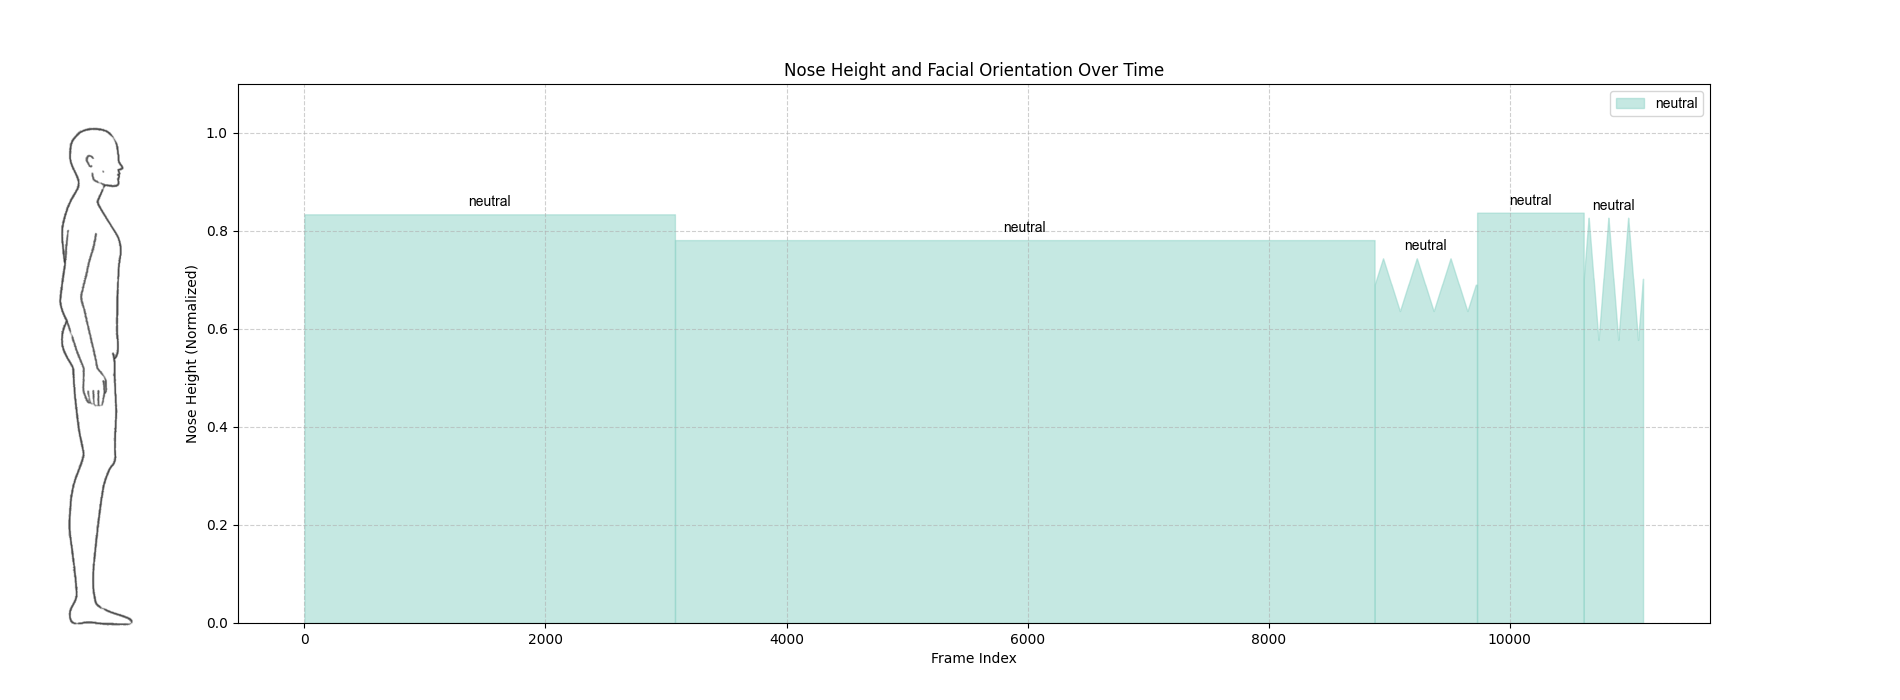
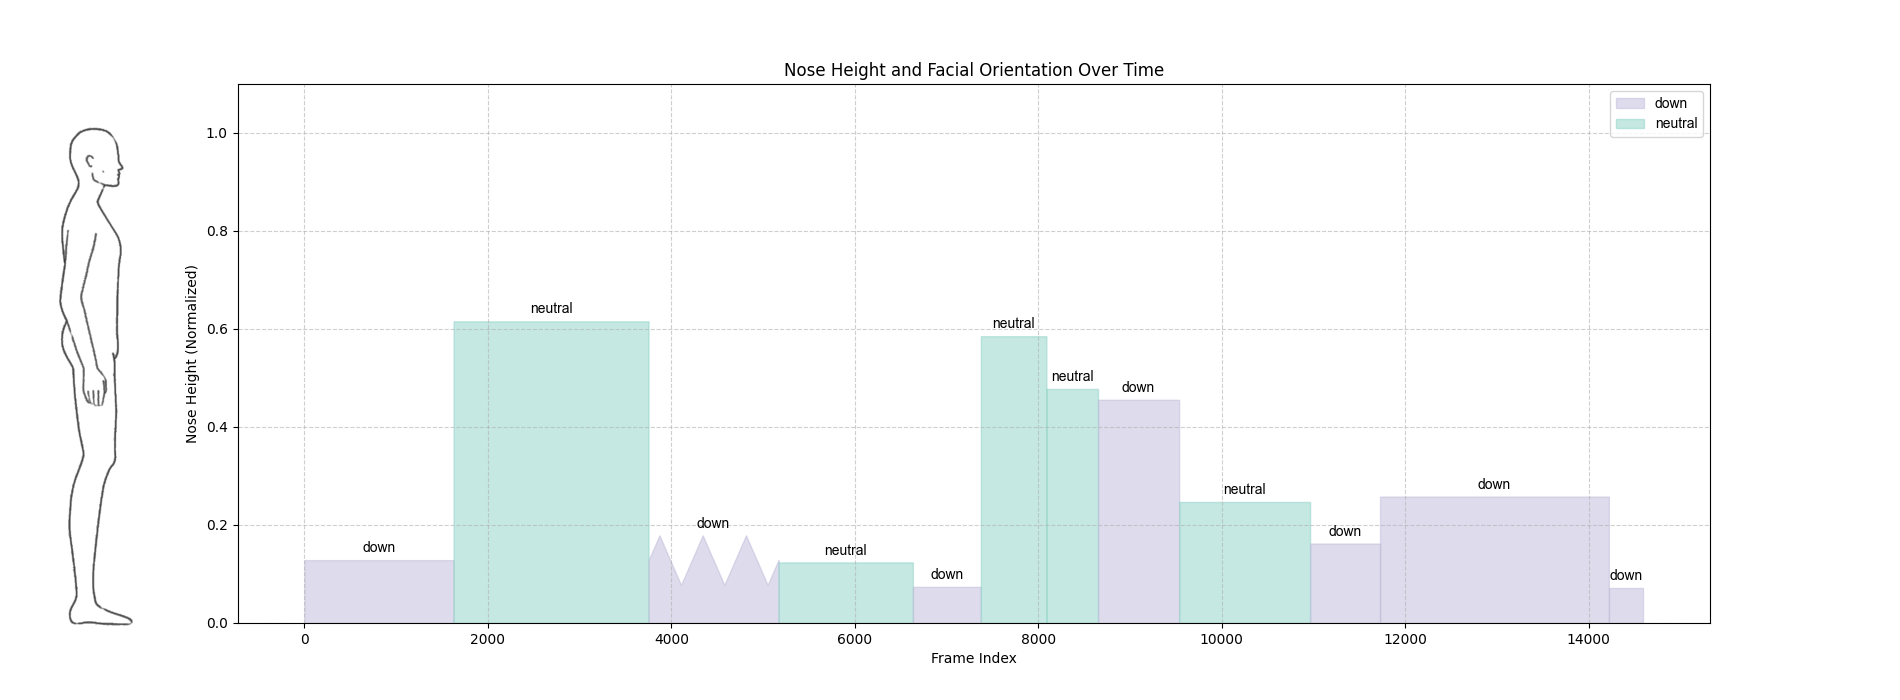
Update app.py, analysis.js, result_plot.png, and analysis.html

diff --git a/templates/analysis.html b/templates/analysis.html
@@ -57,7 +57,7 @@
                 <div class="flex items-center">
                     <a href="/" class="font-['Pacifico'] text-2xl text-primary">MoveMate</a>
                     <div class="ml-10 flex space-x-8">
-                        <a href="/" class="text-gray-500 hover:text-primary px-3 py-2 text-sm font-medium">How It Works<</a>
+                        <a href="/" class="text-gray-500 hover:text-primary px-3 py-2 text-sm font-medium">How It Works</a>
                         <a href="/upload" class="text-gray-500 hover:text-primary px-3 py-2 text-sm font-medium">UPLOAD</a>
                         <a href="/analysis" class="text-primary border-b-2 border-primary px-3 py-2 text-sm font-medium">ANALYSIS</a>
                     </div>

diff --git a/static/analysis.js b/static/analysis.js
@@ -40,7 +40,7 @@ document.addEventListener("DOMContentLoaded", function () {
                 resultImage1.style.display = 'block';
 
                 const resultImage2 = document.getElementById("suggestion-image-2");
-                if (data.image_url_2 !== "None") {  // 确认 image_url_2 不是 None 或 null
+                if (data.image_url_2 != null) {  // 确认 image_url_2 不是 None 或 null
                     resultImage2.src = data.image_url_2;
                     resultImage2.style.display = 'block';
                 } else {

diff --git a/app.py b/app.py
@@ -1460,14 +1460,14 @@ def analyze_video_orientation(orientation_segments):
     segment1 = ""
     segment2 = ""
     if standing_ratio > 0.8:
-        segment1 = "这个视频中大部分都是站立的动作，建议把播放设备放置在支架上。"
+        segment1 = "这个视频中大部分都是站立的动作，建议把播放设备放置在支架上。\n"
         segment2 = ("建议把播放设备放在如下图所示的位置。")
         image.append(1)
     elif transitions_count > 2 :
-        segment1 = "这个视频动作类型较为分散，可能需要多次调整播放设备"
+        segment1 = "这个视频动作类型较为分散，可能需要多次调整播放设备。"
     elif transitions_count == 1 :
         if store == 'high':
-            segment1 = "这个视频前期是站立动作，建议把播放设备放置在支架上。后期是非站立动作，建议把播放设备放置在地板上。"
+            segment1 = "这个视频前期是站立动作，建议把播放设备放置在支架上。后期是非站立动作，建议把播放设备放置在地板上。\n"
             if down_ratio > 0.8:
                 segment2 = ("建议把播放设备放在如下图所示的位置。")
                 image.append(1)
@@ -1477,7 +1477,7 @@ def analyze_video_orientation(orientation_segments):
                 image.append(1)
                 image.append(2)
         else:
-            segment1 = "这个视频前期是非站立动作，建议把播放设备放置在地板上。后期是站立动作，建议把播放设备放置在支架上。"
+            segment1 = "这个视频前期是非站立动作，建议把播放设备放置在地板上。后期是站立动作，建议把播放设备放置在支架上。\n"
             if down_ratio > 0.8:
                 segment2 = ("建议把播放设备放在如下图所示的位置。")
                 image.append(3)
@@ -1487,7 +1487,7 @@ def analyze_video_orientation(orientation_segments):
                 image.append(2)
                 image.append(1)
     else:
-        segment1 = "这个视频中大部分动作都是非站立动作，建议把播放设备放置在地板上。"
+        segment1 = "这个视频中大部分动作都是非站立动作，建议把播放设备放置在地板上。\n"
         if down_ratio > 0.8:
             segment2 = ("建议把播放设备放在如下图所示的位置。")
             image.append(3)
@@ -1549,47 +1549,47 @@ def get_video():
 
 @app.route("/check_status")
 def check_status():
-    frame_data_list, fps= generate_video(video_filename)
-    body_height, orientation, head_y = extract_data_from_frame_list(frame_data_list)
-    orientation = smooth_stable_data(orientation)
-    orientation_segments = first_orientation_segments(orientation, body_height, head_y, fps)
-    orientation_segments, orientation, body_height, head_y = filter_invalid_orientation_segments(orientation_segments, orientation, body_height, head_y, fps)
+    # frame_data_list, fps= generate_video(video_filename)
+    # body_height, orientation, head_y = extract_data_from_frame_list(frame_data_list)
+    # orientation = smooth_stable_data(orientation)
+    # orientation_segments = first_orientation_segments(orientation, body_height, head_y, fps)
+    # orientation_segments, orientation, body_height, head_y = filter_invalid_orientation_segments(orientation_segments, orientation, body_height, head_y, fps)
     
-    change_points = detect_change_points(body_height, visualize=False)
-    orientation_segments, orientation, body_height, head_y = remove_large_height_changes(change_points, orientation_segments, orientation, body_height, head_y, fps)
-    orientation_segments = merge_alternating_orients(orientation_segments, fps)
-    orientation_segments, orientation, body_height, head_y = merge_orientation_segments(orientation_segments, orientation, body_height, head_y, fps)
+    # change_points = detect_change_points(body_height, visualize=False)
+    # orientation_segments, orientation, body_height, head_y = remove_large_height_changes(change_points, orientation_segments, orientation, body_height, head_y, fps)
+    # orientation_segments = merge_alternating_orients(orientation_segments, fps)
+    # orientation_segments, orientation, body_height, head_y = merge_orientation_segments(orientation_segments, orientation, body_height, head_y, fps)
 
 
-    segmented_head_y = split_head_y_by_orientation(orientation_segments, head_y)
-    segmented_head_y, split_info = process_segmented_head_y(segmented_head_y)
-    print(split_info)
+    # segmented_head_y = split_head_y_by_orientation(orientation_segments, head_y)
+    # segmented_head_y, split_info = process_segmented_head_y(segmented_head_y)
+    # print(split_info)
 
-    periodics = []
-    means = []
-    amps = []
-    for segment in segmented_head_y:
-        segment = np.array(segment, dtype=float)
-        periodic, mean, amp = detect_periodicity_acf_with_peaks(segment)
-        if periodic:
-            if amp < 0.05:
-                periodic = False
-        periodics.append(periodic)
-        means.append(mean)
-        amps.append(amp)
+    # periodics = []
+    # means = []
+    # amps = []
+    # for segment in segmented_head_y:
+    #     segment = np.array(segment, dtype=float)
+    #     periodic, mean, amp = detect_periodicity_acf_with_peaks(segment)
+    #     if periodic:
+    #         if amp < 0.05:
+    #             periodic = False
+    #     periodics.append(periodic)
+    #     means.append(mean)
+    #     amps.append(amp)
     
-    orientation_segments = split_orientation_segments(orientation_segments, segmented_head_y, split_info)
-    print(periodics)
-    orientation_segments = update_orientation_segments(orientation_segments, periodics, means, amps)
+    # orientation_segments = split_orientation_segments(orientation_segments, segmented_head_y, split_info)
+    # print(periodics)
+    # orientation_segments = update_orientation_segments(orientation_segments, periodics, means, amps)
     
     image_path = os.path.join(UPLOAD_FOLDER, 'result_plot.png')
     
-    plot_orientation_segments(orientation_segments, image_path)
+    # plot_orientation_segments(orientation_segments, image_path)
 
-    summary_template, image = analyze_video_orientation(orientation_segments)
+    # summary_template, image = analyze_video_orientation(orientation_segments)
 
-    # summary_template = '1. Most of the actions in this video are non-standing, and it is recommended to place the playback device on the floor.\n 2. It is recommended to place the playback device in the position shown in the following figure.'
-    # image = [1, 2]
+    summary_template = '1. Most of the actions in this video are non-standing, and it is recommended to place the playback device on the floor.\n 2. It is recommended to place the playback device in the position shown in the following figure.'
+    image = [1]
 
     image_urls = {}
     image_urls[f"image_url"] = "/" + image_path if image_path else None
@@ -1611,7 +1611,9 @@ def check_status():
         "done": True,
         "result": summary_template,
     }
+
     response_data.update(image_urls)  # 添加图片 URL 键值对
+    print(response_data)
 
     # time.sleep(2)
 
